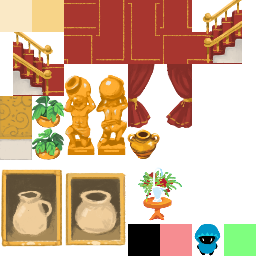
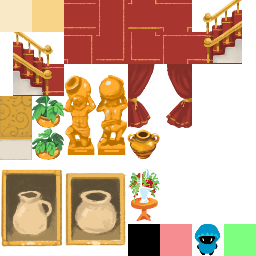
level 3-3 and 3-2 tiles / heavy pot stuff

Changed region(s): [[0.5, 0.6562, 0.7188, 0.875], [0.5, 0.0, 0.75, 0.125]]

diff --git a/build01/js/Preload.js b/build01/js/Preload.js
@@ -38,6 +38,7 @@ Preload = {
 		this.load.spritesheet('potSprite_2-2', 'assets/img/sprites/2_2_pots_breaking32x32.png', 32, 32);
 		this.load.spritesheet('potSprite_3-1', 'assets/img/sprites/3_pots_breaking2-32x32.png', 32, 32);
 		this.load.spritesheet('potSprite_3-2', 'assets/img/sprites/3_pots_breaking3-32x32.png', 32, 32);
+		this.load.spritesheet('potSprite_3-3-heavy', 'assets/img/sprites/3_pots_heavy-32x32.png', 32, 32);
 
 		// audio
 		game.load.audio('sfx_pot1', [ 'assets/audio/soundFX/sfx_potsounds_01.mp3', 

diff --git a/build01/js/Level3-3.js b/build01/js/Level3-3.js
@@ -204,7 +204,7 @@ var Level3P3 = {
 		heavyPotGroup.enableBody = true;
 		heavyPotGroup.physicsBodyType = Phaser.Physics.ARCADE;
 
-		this.map.createFromObjects('objectsLayer', 47, 'potSprite_3-2', 0, true, false, heavyPotGroup);
+		this.map.createFromObjects('objectsLayer', 47, 'potSprite_3-3-heavy', 0, true, false, heavyPotGroup);
 
 		this.game.physics.arcade.enable(heavyPotGroup);
 
